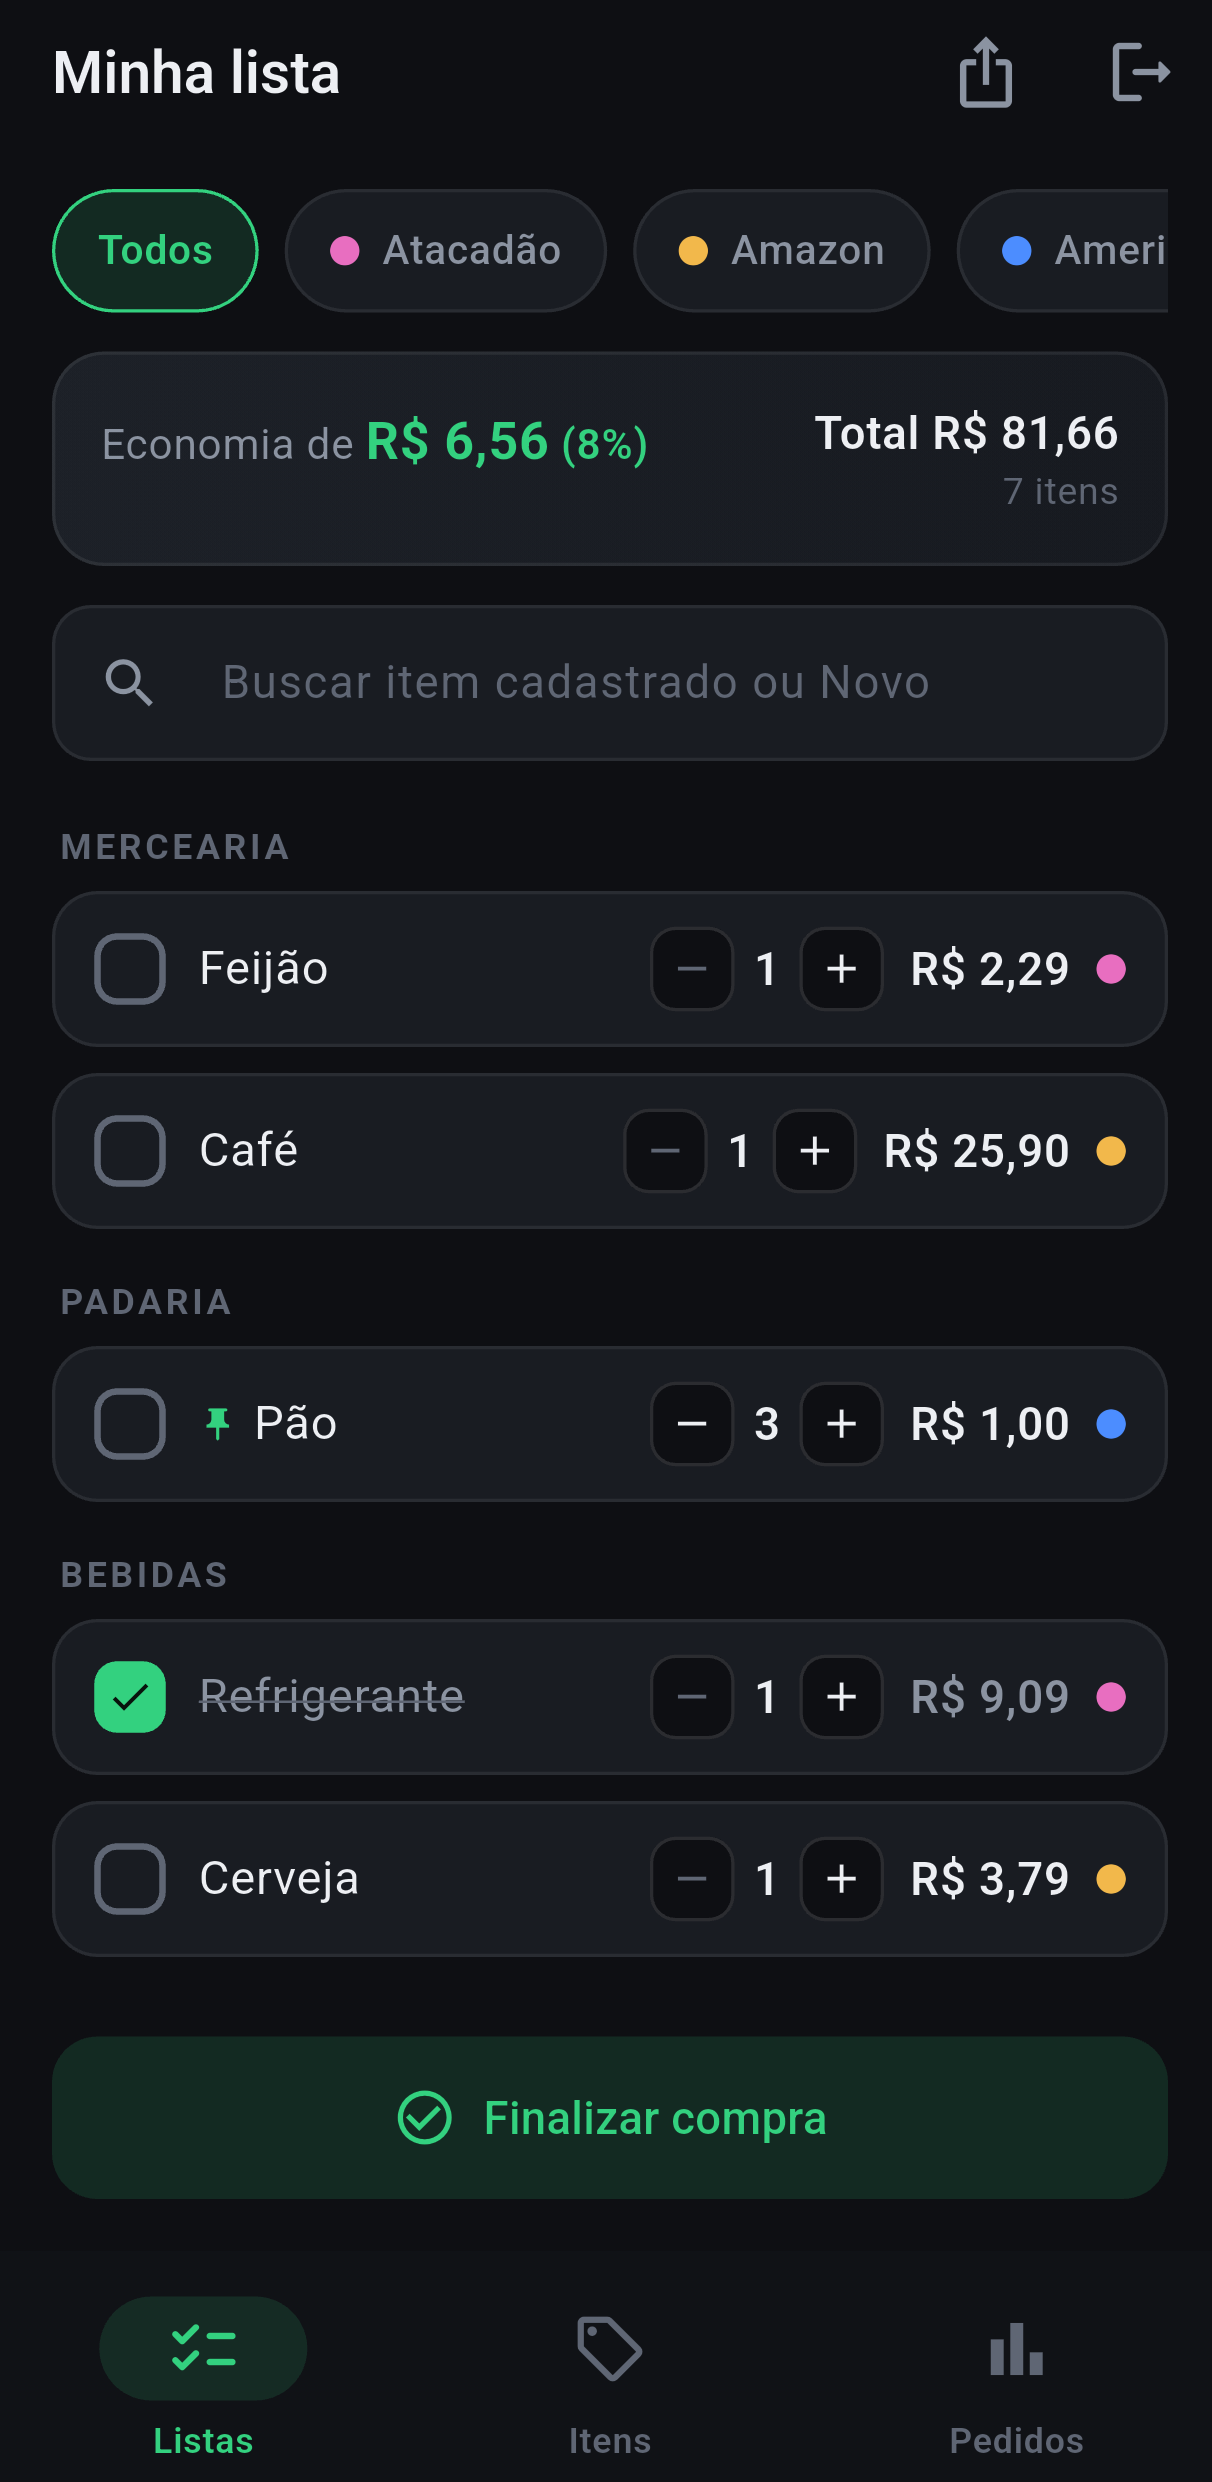
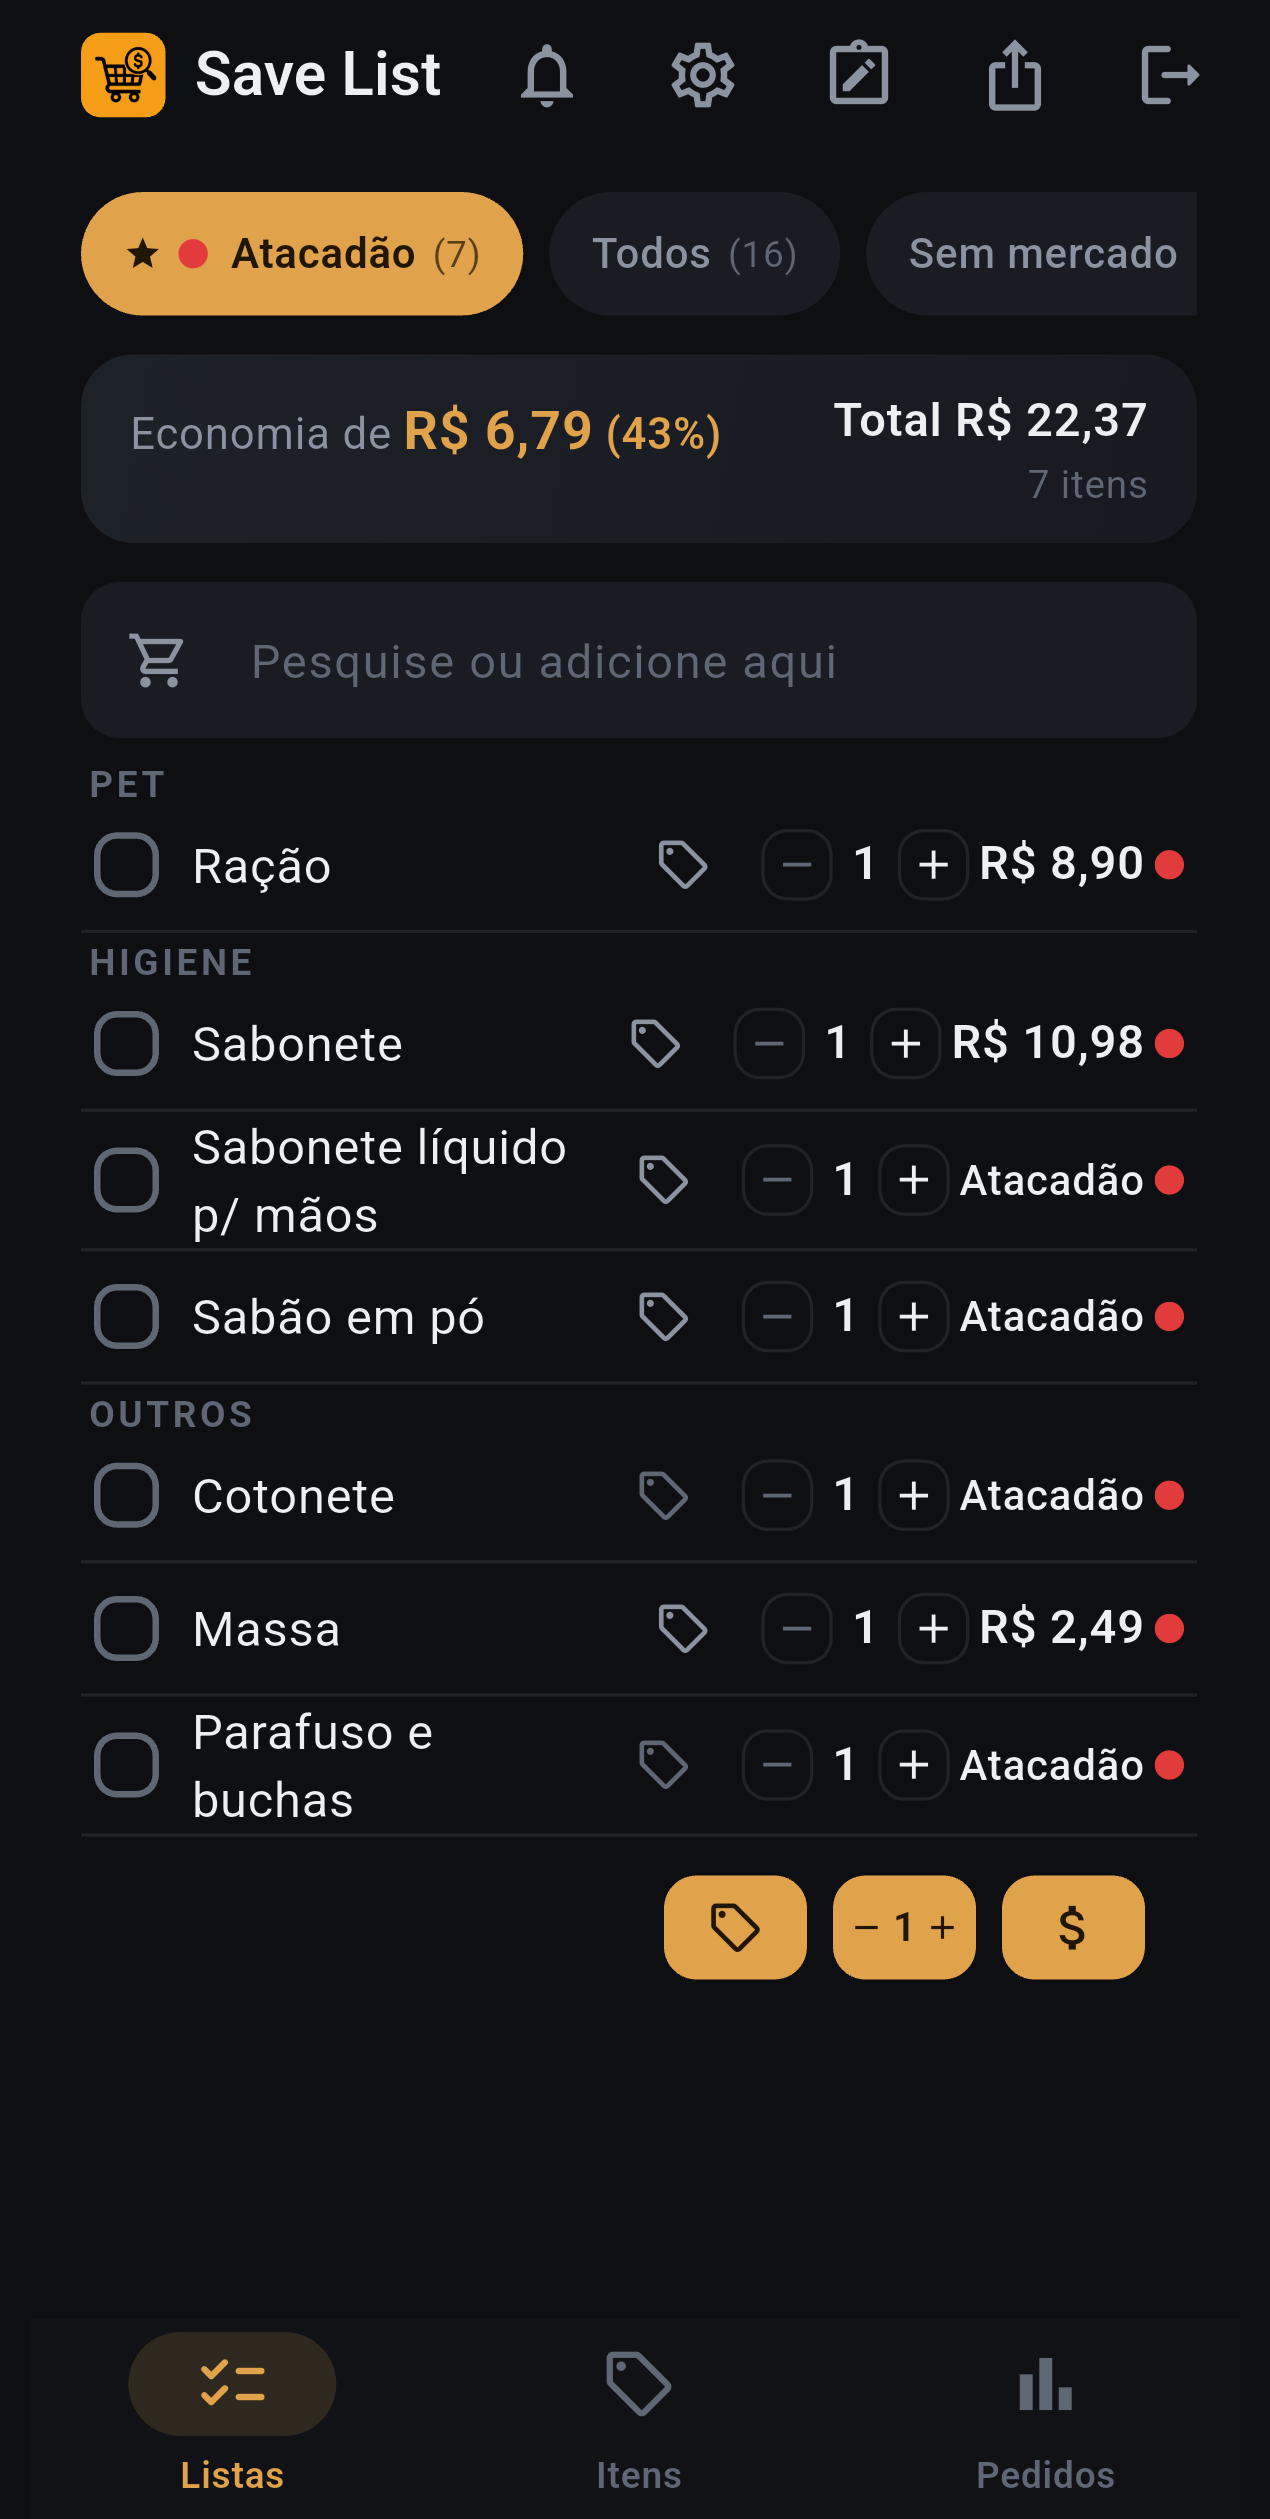
store: screenshots novos do Save List formatados p/ Play Store
- 4 prints atuais (Listas, Comparador, Preço por mercado, Pedidos) ajustados
  p/ ≤2:1 e RGB sem alpha; crus arquivados em store/screenshots/originais/
- remove screenshots antigos (v0.27); atualiza LANCAMENTO.md + INICIO.md

Claude-Session: https://claude.ai/code/session_01NkXhc8Y8SUceAHEcHYrDKa

diff --git a/LANCAMENTO.md b/LANCAMENTO.md
@@ -80,16 +80,18 @@ Seus dados ficam só com você, sincronizados na nuvem com login pelo Google. Se
 |---|---|---|
 | **Ícone** | 512×512 PNG, ≤1 MB | ✅ `store/icon_512.png` |
 | **Feature graphic** | 1024×500 PNG/JPG | ✅ `store/feature_graphic.png` |
-| **Screenshots (telefone)** | 2 a 8, lado 320–3840px | ⚠ **DESATUALIZADOS** (ver abaixo) |
+| **Screenshots (telefone)** | 2 a 8, lado 320–3840px, PNG 24-bit s/ alpha, ≤2:1 | ✅ 4 novos (16/09) |
 
-> ⚠ **Screenshots precisam ser refeitos.** Os que estão em `store/screenshots/` são de
-> 01/ago (app na v0.27) e não mostram temas, Nota rápida/To-do, mercado favorito etc.
-> **O jeito mais simples e bonito:** abrir o app **atual no seu celular** e tirar 3–5 prints.
-> Sugestão de telas: **(1)** aba Listas com itens e a caixa "Economia/Total"; **(2)** aba Itens
-> mostrando o comparador de preço entre mercados; **(3)** aba Pedidos com o resumo do mês;
-> **(4)** a Nota rápida / To-do aberta; **(5)** Configurações com os temas. Me manda os prints
-> que eu ajusto pro formato da loja (padding pra ficar ≤2:1) e reponho em `store/screenshots/`.
-> *(Não dá pra gerar print bonito na VPS: sem emulador, o texto sai como quadradinhos.)*
+**Screenshots prontos em `store/screenshots/`** (app atual "Save List", formatados p/ a loja —
+proporção 1,98:1, RGB sem alpha):
+1. `01-listas.png` — aba Listas (título "Save List", mercado favorito ⭐, "Economia 43%")
+2. `02-comparador.png` — aba Itens: comparador de preço entre mercados ("economiza vs …")
+3. `03-precos-por-mercado.png` — editar item: preço por mercado (a base do comparador)
+4. `04-pedidos.png` — Pedidos: resumo do mês ("Em Agosto economizou R$ 153,64")
+
+> Os PNGs **crus** do celular ficam em `store/screenshots/originais/` — servem de base pras
+> **artes caprichadas** (moldura de celular + legendas) que dá pra fazer depois. Trocar
+> screenshots na loja é edição de ficha: **não** exige novo AAB nem reinicia o teste de 14 dias.
 
 ---
 

diff --git a/INICIO.md b/INICIO.md
@@ -109,8 +109,9 @@ release (assets não contam cota). Ver `APRENDIZADOS.md`.
     **classificação de conteúdo** = respostas prontas em `LANCAMENTO.md`. ✅
   - **Keystore de upload** entregue ao usuário como backup (SHA-1 `FB:02:95:…:C0:F0`,
     senha no `key.properties`; existe local em `app/android/app/upload-keystore.jks`). ✅
-  - ⚠ **Screenshots DESATUALIZADOS** (`store/screenshots/` = 01/ago, app v0.27) → o usuário
-    vai tirar prints novos do app atual no celular; eu formato p/ a loja e reponho.
+  - **Screenshots NOVOS (16/09)** em `store/screenshots/` (01-listas, 02-comparador,
+    03-precos-por-mercado, 04-pedidos), formatados p/ loja (1,98:1, RGB); crus em
+    `store/screenshots/originais/` p/ artes caprichadas futuras. ✅
 - **Decisão:** lançar em **PT agora**; EN/ES (já no app) como fichas traduzidas depois.
 - **Monetização:** grátis, sem anúncios (decisão do usuário).
 
